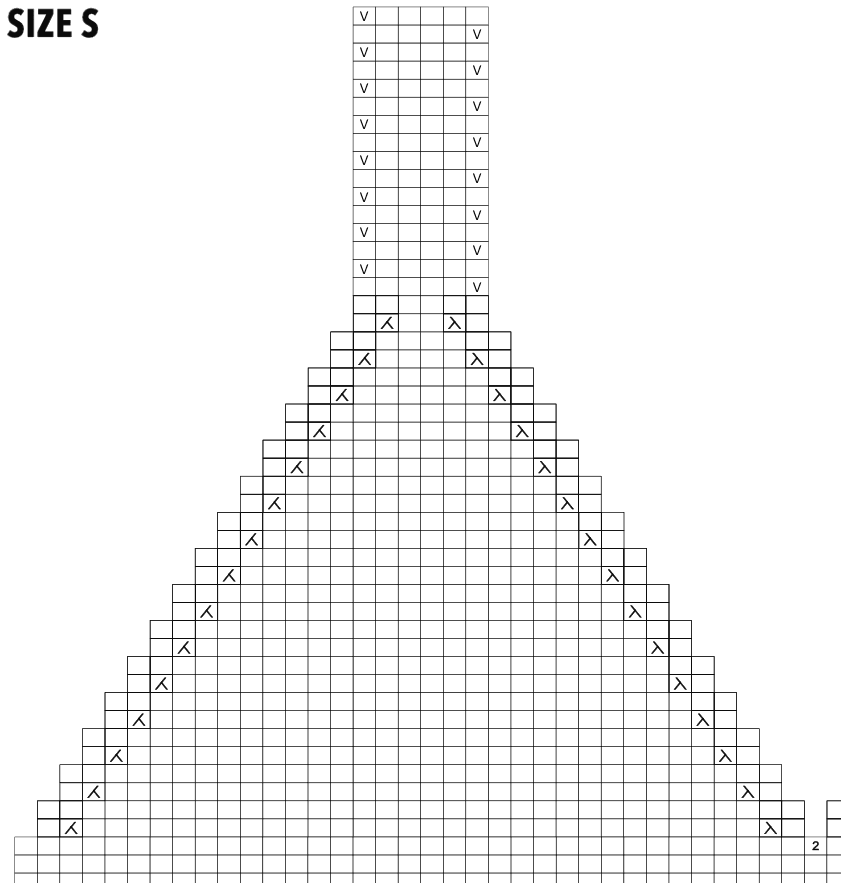
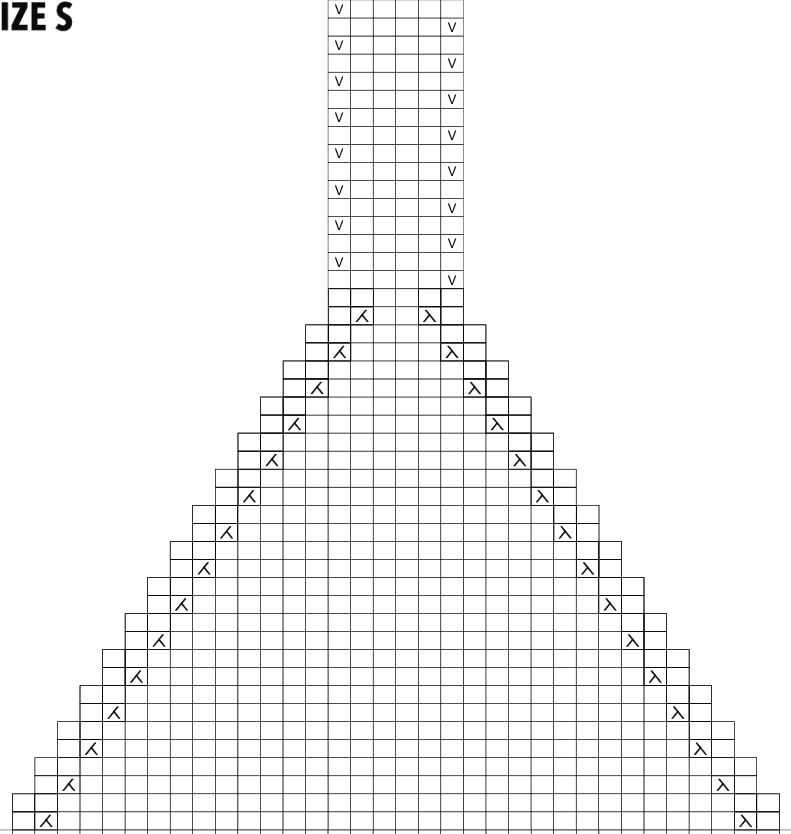
Sunny Top: re-cut chart images on grid lines
Claude-Session: https://claude.ai/code/session_018GmGDidU7Y9vBCocXdNyUW

Changed region(s): [[0.0, 0.0, 1.0, 1.0], [0.0, 0.0, 0.1214, 0.0624]]

diff --git a/sunny-top/index.html b/sunny-top/index.html
@@ -139,7 +139,7 @@ h1,h2{font-family:var(--f-display);font-weight:400;margin:0;text-wrap:balance}
 <div class="wrap" id="app"></div>
 
 <script>
-const CHARTS = {"body": {"src": "sunny/body.png", "w": 1680, "h": 992, "base": 0, "lines": [982.2, 964.2, 946.1, 928.1, 910.1, 892.0, 874.0, 855.9, 837.9, 819.9, 801.8, 783.8, 765.7, 747.7, 729.6, 711.6, 693.6, 675.5, 657.5, 639.4, 621.4, 603.4, 585.3, 567.3, 549.2, 531.2, 513.2, 495.1, 477.1, 459.0, 441.0, 422.9, 404.9, 386.9, 368.8, 350.8, 332.7, 314.7, 296.7, 278.6, 260.6, 242.5, 224.5, 206.5, 188.4, 170.4, 152.3, 134.3, 116.2, 98.2, 80.2, 62.1, 44.1, 26.0, 8.0], "cols": [[1, 1616.5], [3, 1571.4], [5, 1526.3], [7, 1481.2], [9, 1436.1], [11, 1390.9], [13, 1345.8], [15, 1300.7], [17, 1255.6], [19, 1210.5], [21, 1165.4], [23, 1120.3], [25, 1075.2], [27, 1030.1], [29, 985.0], [31, 939.9], [33, 894.8], [35, 849.7], [37, 804.6], [39, 759.5], [41, 714.4], [43, 669.3], [45, 624.2], [47, 579.1], [49, 534.0], [51, 488.9], [53, 443.8], [55, 398.7], [57, 353.6], [59, 308.5], [61, 263.3], [63, 218.2], [65, 173.1], [67, 128.0], [69, 82.9], [71, 37.8]]}, "lf": {"src": "sunny/lf.png", "w": 878, "h": 883, "base": 52, "lines": [874.0, 855.9, 837.9, 819.9, 801.8, 783.8, 765.7, 747.7, 729.6, 711.6, 693.6, 675.5, 657.5, 639.4, 621.4, 603.4, 585.3, 567.3, 549.2, 531.2, 513.2, 495.1, 477.1, 459.0, 441.0, 422.9, 404.9, 386.9, 368.8, 350.8, 332.7, 314.7, 296.7, 278.6, 260.6, 242.5, 224.5, 206.5, 188.4, 170.4, 152.3, 134.3, 116.2, 98.2, 80.2, 62.1, 44.1, 26.0, 8.0], "cols": [[1, 814.7], [2, 792.1], [3, 769.6], [4, 747.0], [5, 724.5], [6, 701.9], [7, 679.3], [8, 656.8], [9, 634.2], [10, 611.7], [11, 589.1], [12, 566.6], [13, 544.0], [14, 521.5], [15, 498.9], [16, 476.4], [17, 453.8], [18, 431.3], [19, 408.7], [20, 386.2], [21, 363.6], [22, 341.1], [23, 318.5], [24, 296.0], [25, 273.4], [26, 250.9], [27, 228.3], [28, 205.8], [29, 183.2], [30, 160.7], [31, 138.1], [32, 115.5], [33, 93.0], [34, 70.4], [35, 47.9], [36, 25.3]]}, "rf": {"src": "sunny/rf.png", "w": 841, "h": 883, "base": 52, "lines": [874.0, 855.9, 837.9, 819.9, 801.8, 783.8, 765.7, 747.7, 729.6, 711.6, 693.6, 675.5, 657.5, 639.4, 621.4, 603.4, 585.3, 567.3, 549.2, 531.2, 513.2, 495.1, 477.1, 459.0, 441.0, 422.9, 404.9, 386.9, 368.8, 350.8, 332.7, 314.7, 296.7, 278.6, 260.6, 242.5, 224.5, 206.5, 188.4, 170.4, 152.3, 134.3, 116.2, 98.2, 80.2, 62.1, 44.1, 26.0, 8.0], "cols": [[1, 814.7], [2, 792.1], [3, 769.6], [4, 747.0], [5, 724.5], [6, 701.9], [7, 679.3], [8, 656.8], [9, 634.2], [10, 611.7], [11, 589.1], [12, 566.6], [13, 544.0], [14, 521.5], [15, 498.9], [16, 476.4], [17, 453.8], [18, 431.3], [19, 408.7], [20, 386.2], [21, 363.6], [22, 341.1], [23, 318.5], [24, 296.0], [25, 273.4], [26, 250.9], [27, 228.3], [28, 205.8], [29, 183.2], [30, 160.7], [31, 138.1], [32, 115.5], [33, 93.0], [34, 70.4], [35, 47.9], [36, 25.3]]}, "rb": {"src": "sunny/rb.png", "w": 841, "h": 883, "base": 52, "lines": [874.0, 855.9, 837.9, 819.9, 801.8, 783.8, 765.7, 747.7, 729.6, 711.6, 693.6, 675.5, 657.5, 639.4, 621.4, 603.4, 585.3, 567.3, 549.2, 531.2, 513.2, 495.1, 477.1, 459.0, 441.0, 422.9, 404.9, 386.9, 368.8, 350.8, 332.7, 314.7, 296.7, 278.6, 260.6, 242.5, 224.5, 206.5, 188.4, 170.4, 152.3, 134.3, 116.2, 98.2, 80.2, 62.1, 44.1, 26.0, 8.0], "cols": [[1, 814.7], [2, 792.1], [3, 769.6], [4, 747.0], [5, 724.5], [6, 701.9], [7, 679.3], [8, 656.8], [9, 634.2], [10, 611.7], [11, 589.1], [12, 566.6], [13, 544.0], [14, 521.5], [15, 498.9], [16, 476.4], [17, 453.8], [18, 431.3], [19, 408.7], [20, 386.2], [21, 363.6], [22, 341.1], [23, 318.5], [24, 296.0], [25, 273.4], [26, 250.9], [27, 228.3], [28, 205.8], [29, 183.2], [30, 160.7], [31, 138.1], [32, 115.5], [33, 93.0], [34, 70.4], [35, 47.9], [36, 25.3]]}, "lb": {"src": "sunny/lb.png", "w": 841, "h": 883, "base": 52, "lines": [874.0, 855.9, 837.9, 819.9, 801.8, 783.8, 765.7, 747.7, 729.6, 711.6, 693.6, 675.5, 657.5, 639.4, 621.4, 603.4, 585.3, 567.3, 549.2, 531.2, 513.2, 495.1, 477.1, 459.0, 441.0, 422.9, 404.9, 386.9, 368.8, 350.8, 332.7, 314.7, 296.7, 278.6, 260.6, 242.5, 224.5, 206.5, 188.4, 170.4, 152.3, 134.3, 116.2, 98.2, 80.2, 62.1, 44.1, 26.0, 8.0], "cols": [[1, 814.7], [2, 792.1], [3, 769.6], [4, 747.0], [5, 724.5], [6, 701.9], [7, 679.3], [8, 656.8], [9, 634.2], [10, 611.7], [11, 589.1], [12, 566.6], [13, 544.0], [14, 521.5], [15, 498.9], [16, 476.4], [17, 453.8], [18, 431.3], [19, 408.7], [20, 386.2], [21, 363.6], [22, 341.1], [23, 318.5], [24, 296.0], [25, 273.4], [26, 250.9], [27, 228.3], [28, 205.8], [29, 183.2], [30, 160.7], [31, 138.1], [32, 115.5], [33, 93.0], [34, 70.4], [35, 47.9], [36, 25.3]]}};
+const CHARTS = {"body": {"src": "sunny/body.png", "w": 1678, "h": 978, "base": 0, "lines": [975.6, 957.6, 939.5, 921.5, 903.5, 885.4, 867.4, 849.3, 831.3, 813.3, 795.2, 777.2, 759.1, 741.1, 723.0, 705.0, 687.0, 668.9, 650.9, 632.8, 614.8, 596.8, 578.7, 560.7, 542.6, 524.6, 506.6, 488.5, 470.5, 452.4, 434.4, 416.3, 398.3, 380.3, 362.2, 344.2, 326.1, 308.1, 290.1, 272.0, 254.0, 235.9, 217.9, 199.9, 181.8, 163.8, 145.7, 127.7, 109.6, 91.6, 73.6, 55.5, 37.5, 19.4, 1.4], "cols": [[1, 1614.4], [3, 1569.3], [5, 1524.2], [7, 1479.1], [9, 1434.0], [11, 1388.9], [13, 1343.8], [15, 1298.7], [17, 1253.6], [19, 1208.5], [21, 1163.4], [23, 1118.3], [25, 1073.2], [27, 1028.1], [29, 983.0], [31, 937.9], [33, 892.8], [35, 847.7], [37, 802.6], [39, 757.4], [41, 712.3], [43, 667.2], [45, 622.1], [47, 577.0], [49, 531.9], [51, 486.8], [53, 441.7], [55, 396.6], [57, 351.5], [59, 306.4], [61, 261.3], [63, 216.2], [65, 171.1], [67, 126.0], [69, 80.9], [71, 35.8]]}, "lf": {"src": "sunny/lf.png", "w": 853, "h": 834, "base": 54, "lines": [831.3, 813.3, 795.2, 777.2, 759.1, 741.1, 723.0, 705.0, 687.0, 668.9, 650.9, 632.8, 614.8, 596.8, 578.7, 560.7, 542.6, 524.6, 506.6, 488.5, 470.5, 452.4, 434.4, 416.3, 398.3, 380.3, 362.2, 344.2, 326.1, 308.1, 290.1, 272.0, 254.0, 235.9, 217.9, 199.9, 181.8, 163.8, 145.7, 127.7, 109.6, 91.6, 73.6, 55.5, 37.5, 19.4, 1.4], "cols": [[1, 789.3], [2, 766.8], [3, 744.2], [4, 721.7], [5, 699.1], [6, 676.6], [7, 654.0], [8, 631.5], [9, 608.9], [10, 586.4], [11, 563.8], [12, 541.2], [13, 518.7], [14, 496.1], [15, 473.6], [16, 451.0], [17, 428.5], [18, 405.9], [19, 383.4], [20, 360.8], [21, 338.3], [22, 315.7], [23, 293.2], [24, 270.6], [25, 248.1], [26, 225.5], [27, 203.0], [28, 180.4], [29, 157.9], [30, 135.3], [31, 112.8], [32, 90.2], [33, 67.7], [34, 45.1], [35, 22.6], [36, 0.0]]}, "rf": {"src": "sunny/rf.png", "w": 791, "h": 834, "base": 54, "lines": [831.3, 813.3, 795.2, 777.2, 759.1, 741.1, 723.0, 705.0, 687.0, 668.9, 650.9, 632.8, 614.8, 596.8, 578.7, 560.7, 542.6, 524.6, 506.6, 488.5, 470.5, 452.4, 434.4, 416.3, 398.3, 380.3, 362.2, 344.2, 326.1, 308.1, 290.1, 272.0, 254.0, 235.9, 217.9, 199.9, 181.8, 163.8, 145.7, 127.7, 109.6, 91.6, 73.6, 55.5, 37.5, 19.4, 1.4], "cols": [[1, 789.3], [2, 766.8], [3, 744.2], [4, 721.7], [5, 699.1], [6, 676.6], [7, 654.0], [8, 631.5], [9, 608.9], [10, 586.4], [11, 563.8], [12, 541.2], [13, 518.7], [14, 496.1], [15, 473.6], [16, 451.0], [17, 428.5], [18, 405.9], [19, 383.4], [20, 360.8], [21, 338.3], [22, 315.7], [23, 293.2], [24, 270.6], [25, 248.1], [26, 225.5], [27, 203.0], [28, 180.4], [29, 157.9], [30, 135.3], [31, 112.8], [32, 90.2], [33, 67.7], [34, 45.1], [35, 22.6], [36, 0.0]]}, "rb": {"src": "sunny/rb.png", "w": 790, "h": 834, "base": 54, "lines": [831.3, 813.3, 795.2, 777.2, 759.1, 741.1, 723.0, 705.0, 687.0, 668.9, 650.9, 632.8, 614.8, 596.8, 578.7, 560.7, 542.6, 524.6, 506.6, 488.5, 470.5, 452.4, 434.4, 416.3, 398.3, 380.3, 362.2, 344.2, 326.1, 308.1, 290.1, 272.0, 254.0, 235.9, 217.9, 199.9, 181.8, 163.8, 145.7, 127.7, 109.6, 91.6, 73.6, 55.5, 37.5, 19.4, 1.4], "cols": [[1, 789.3], [2, 766.8], [3, 744.2], [4, 721.7], [5, 699.1], [6, 676.6], [7, 654.0], [8, 631.5], [9, 608.9], [10, 586.4], [11, 563.8], [12, 541.2], [13, 518.7], [14, 496.1], [15, 473.6], [16, 451.0], [17, 428.5], [18, 405.9], [19, 383.4], [20, 360.8], [21, 338.3], [22, 315.7], [23, 293.2], [24, 270.6], [25, 248.1], [26, 225.5], [27, 203.0], [28, 180.4], [29, 157.9], [30, 135.3], [31, 112.8], [32, 90.2], [33, 67.7], [34, 45.1], [35, 22.6], [36, -0.0]]}, "lb": {"src": "sunny/lb.png", "w": 791, "h": 834, "base": 54, "lines": [831.3, 813.3, 795.2, 777.2, 759.1, 741.1, 723.0, 705.0, 687.0, 668.9, 650.9, 632.8, 614.8, 596.8, 578.7, 560.7, 542.6, 524.6, 506.6, 488.5, 470.5, 452.4, 434.4, 416.3, 398.3, 380.3, 362.2, 344.2, 326.1, 308.1, 290.1, 272.0, 254.0, 235.9, 217.9, 199.9, 181.8, 163.8, 145.7, 127.7, 109.6, 91.6, 73.6, 55.5, 37.5, 19.4, 1.4], "cols": [[1, 789.3], [2, 766.8], [3, 744.2], [4, 721.7], [5, 699.1], [6, 676.6], [7, 654.0], [8, 631.5], [9, 608.9], [10, 586.4], [11, 563.8], [12, 541.2], [13, 518.7], [14, 496.1], [15, 473.6], [16, 451.0], [17, 428.5], [18, 405.9], [19, 383.4], [20, 360.8], [21, 338.3], [22, 315.7], [23, 293.2], [24, 270.6], [25, 248.1], [26, 225.5], [27, 203.0], [28, 180.4], [29, 157.9], [30, 135.3], [31, 112.8], [32, 90.2], [33, 67.7], [34, 45.1], [35, 22.6], [36, 0.0]]}};
 const ICONS = [["knit","Knit RS / purl WS"],["purl","Purl RS / knit WS"],["c4b","C4B"],["c4f","C4F"],["k2tog","K2tog"],["skpo","SKPo"],["yo","Yarn over"],["m1p","M1P"],["s2kpo","S2KPo"],["sl","Slip st"],["kpfb","Knit + purl increase"]];
 const LENGTHS = {cropped:{extra:0,g:130,cm:"46 cm / 18.1″",name:"Cropped"},mid:{extra:1,g:160,cm:"53.5 cm / 20.9″",name:"Mid"},long:{extra:2,g:185,cm:"61 cm / 24″",name:"Long"}};
 const PAT = {

diff --git a/sunny-top/sw.js b/sunny-top/sw.js
@@ -1,6 +1,6 @@
 // Bump this version string whenever you update index.html so the new
 // version gets picked up instead of the cached one.
-const CACHE_NAME = 'sunny-top-tracker-v3';
+const CACHE_NAME = 'sunny-top-tracker-v4';
 const ASSETS = [
   './',
   './index.html',
